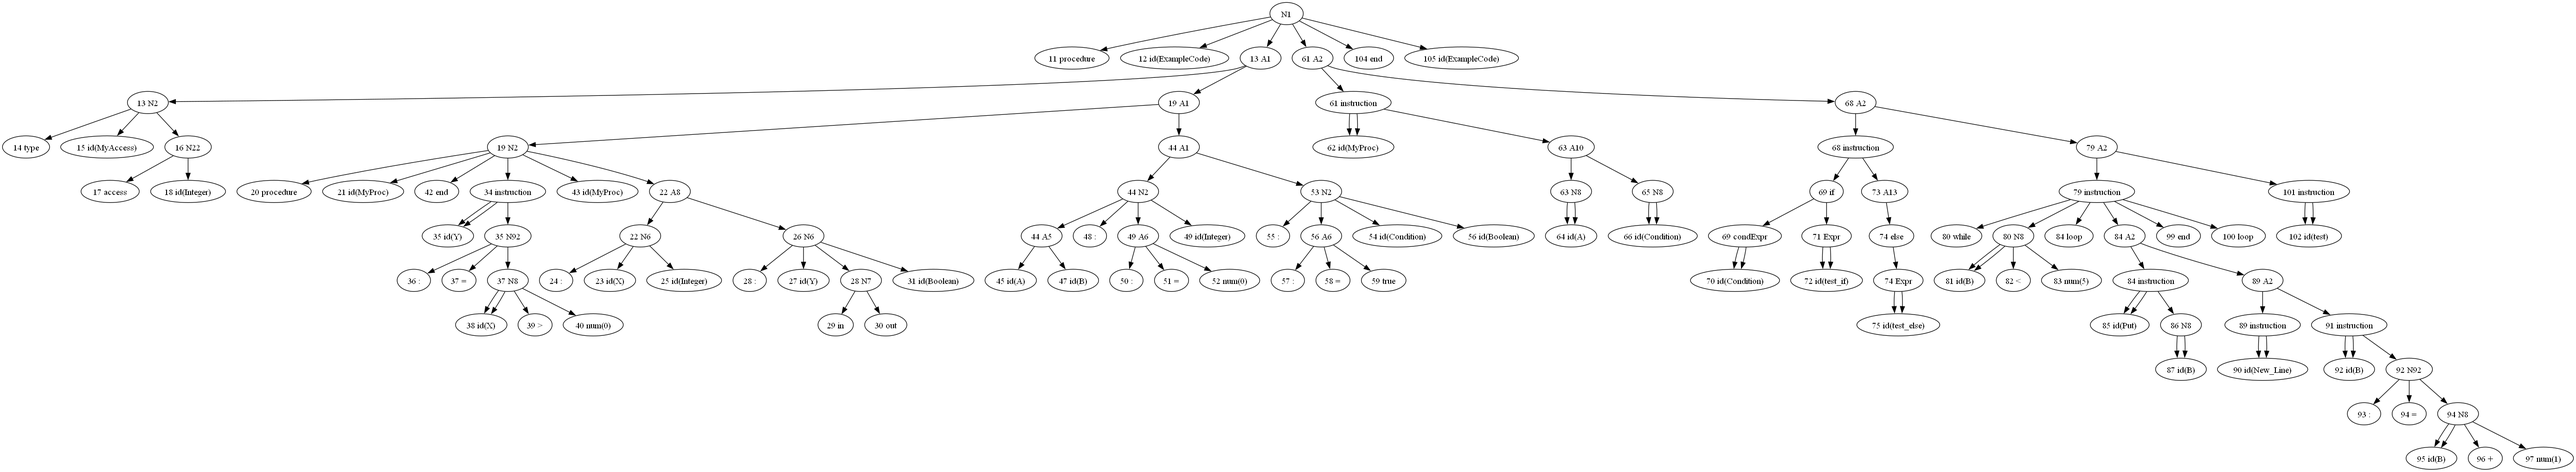
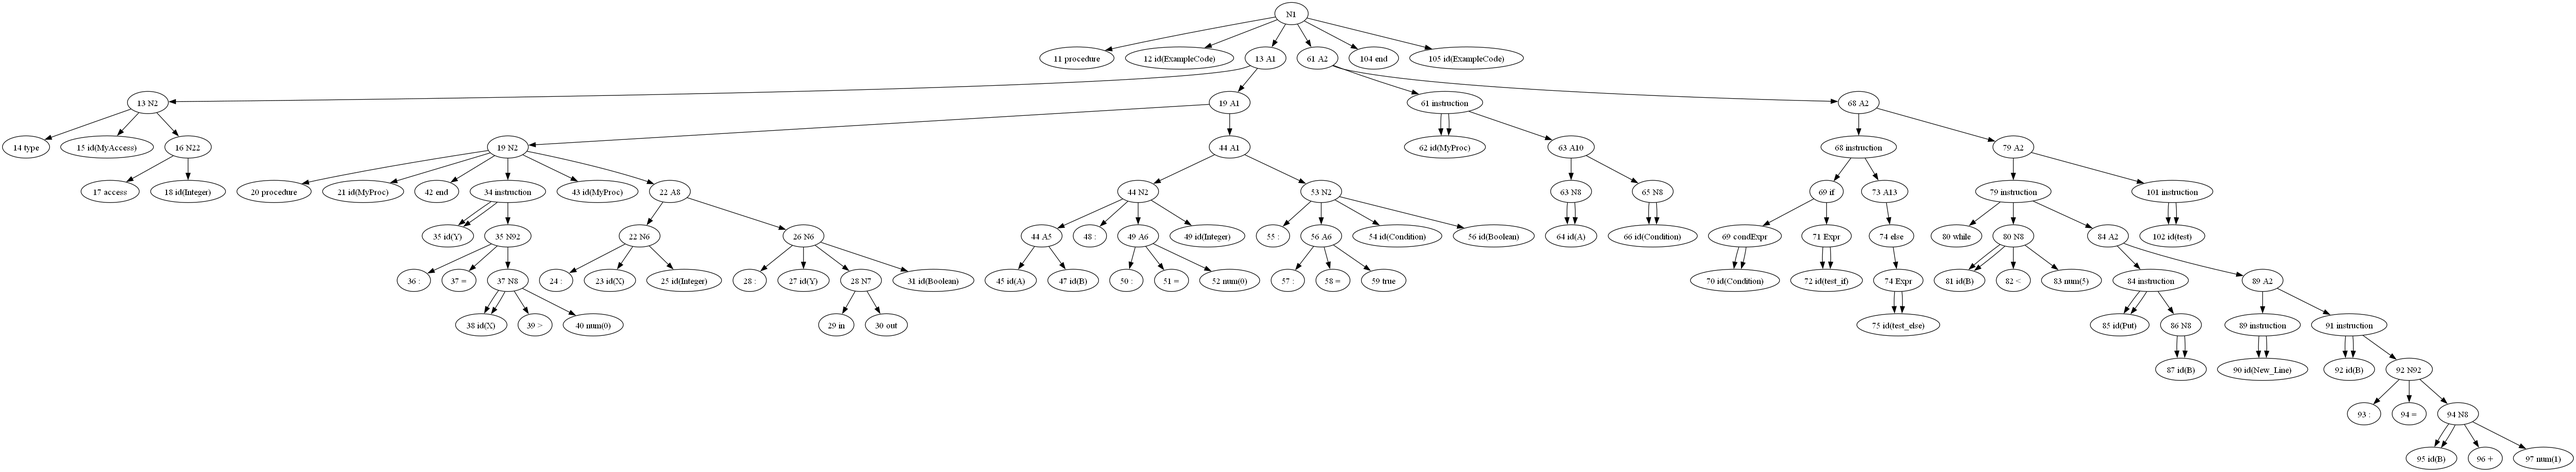
modif

diff --git a/parseur/main_parseur.py b/parseur/main_parseur.py
@@ -129,6 +129,7 @@ def boucle_node(root):
     for node in PreOrderIter(root):
         if node.name != "N1":
             rename(node)
+            blocWhile(node)
 
 
 def test_logique(root):
@@ -210,8 +211,18 @@ def test_else(node, string):
                     sibling[i].parent = node
                     break
 
+def blocWhile(node):
+    nom = node.name.split(" ")
+    if nom[1] == "instruction":
+        nom2 = node.children[0].name.split(" ")
+        if nom2[1] == "while":
+            node.children[2].parent = None
+            node.children[3].parent = None
+            node.children[3].parent = None
+
 
 if __name__ == '__main__':
+    """
     print("On va maintenant tester notre parseur")
     print("Pour chaque test, on va afficher la liste de token renvoyé par le lexeur, puis générer l'arbre syntaxique "
           "associé")
@@ -239,15 +250,15 @@ if __name__ == '__main__':
     print(parseur.functions.fonction_N1(token_list, root))
     generate_final_AST(root)
     generate_tree("tree_if_elif.png")
-
+"""
     print("On va maintenant tester si notre parseur fonctionne avec un programme qui contient des if et des while :")
     token_list = file.get_token("exemples/exemple_if_while.ada")
     print(token_list)
     root = Node('N1')
     print(parseur.functions.fonction_N1(token_list, root))
     generate_final_AST(root)
-    generate_tree("tree_if_while.png")
-
+    generate_tree("tree_if_while2.png")
+"""
     print("Le test qui suit vise à montrer que l'on traite bien le cas où notre grammaire n'est pas LL1 (/=, /) :")
     token_list = file.get_token("exemples/exemple_division_difference.ada")
     print(token_list)
@@ -298,3 +309,4 @@ if __name__ == '__main__':
     # Display the tree structure
     # for pre, _, node in RenderTree(root):
     #     print(f"{pre}{node.name}")
+"""
